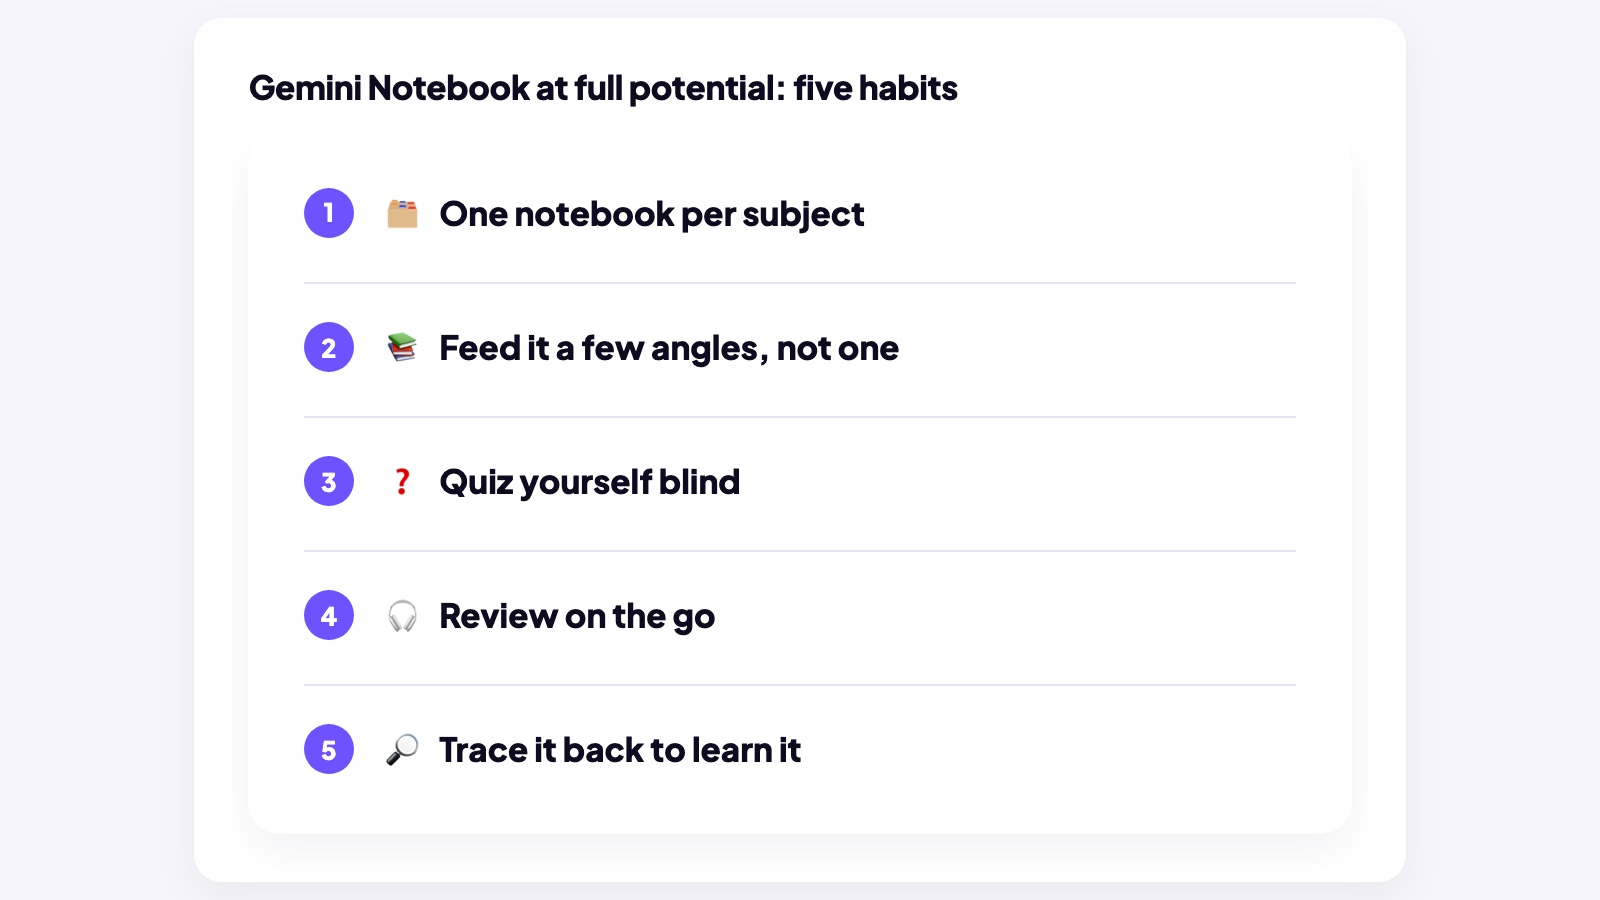
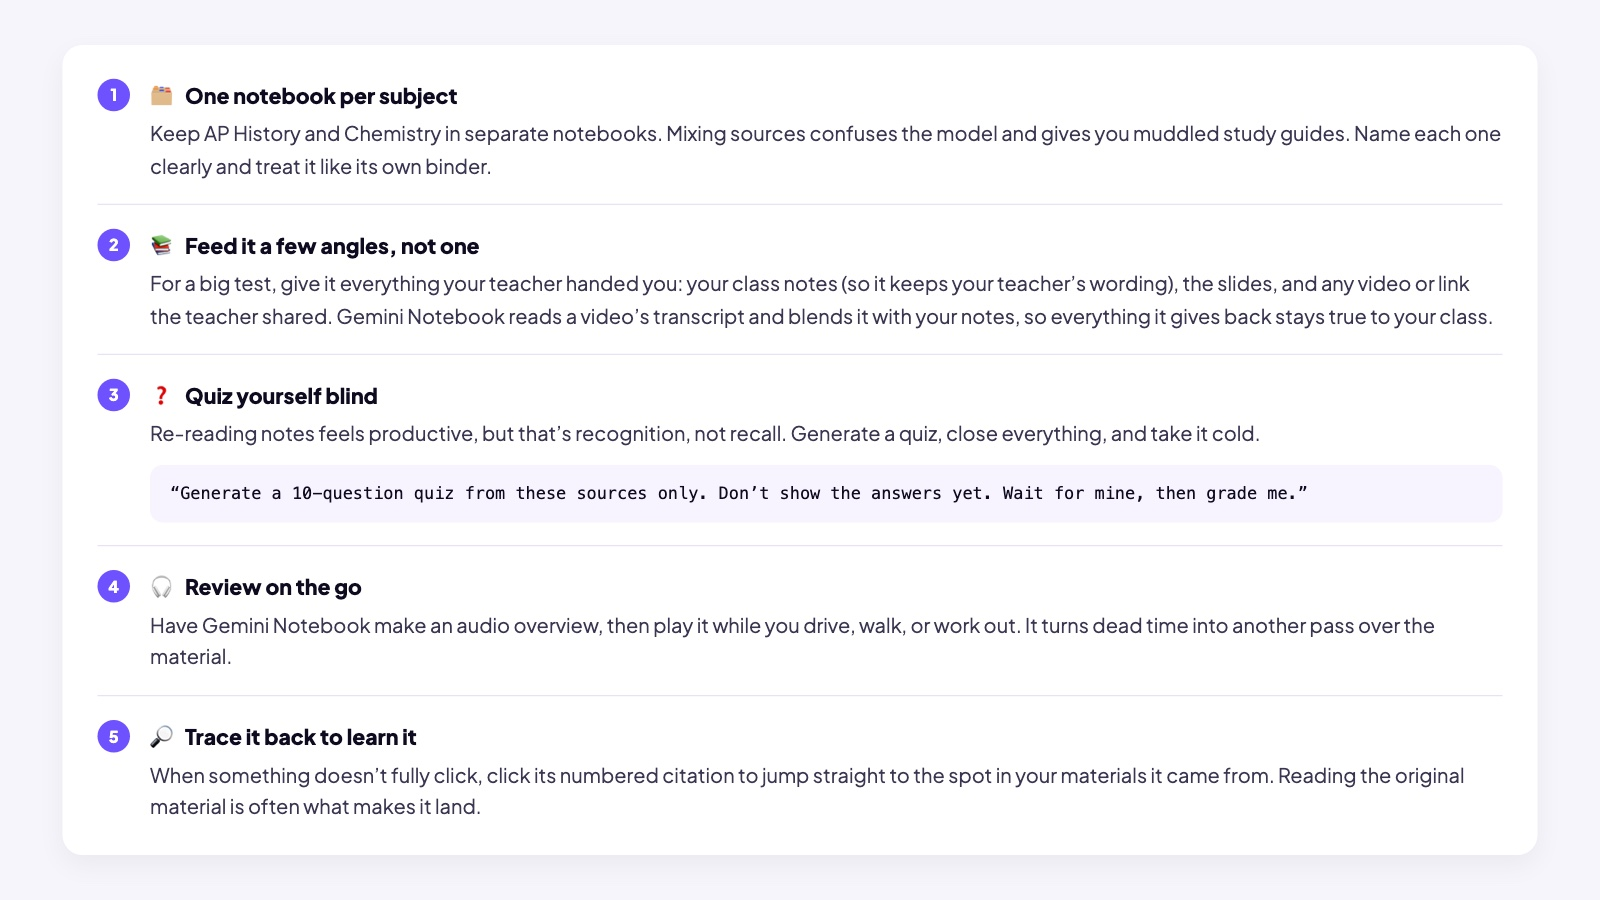
Rebuild the learn-with-ai habits board with its reasons
The kit board was titles only: five habit headings, no bodies. So the video
had nothing to walk and did the only thing available to it, reciting five
names. Cover the title and read a row and you get "Review on the go", which
is a label, not a reason.

Recaptured from the lesson's own extended block, so each habit now carries
the reason printed under it. It runs wide rather than tall and fits 16:9 at
the roomier 1280 stage without scaling.

This is the why-carrying board pattern that took layers from 10 to 13 on
teaches-vs-recites. The engine walks boards reliably, so putting the
explanation on the board points its most dependable behaviour at the part it
keeps skipping.

Prompt updated to match: board 3 gets the most time in the video, the five
are walked in order, and the reason under each one has to be spoken. Also
bans invented charts. The last roll ended on a fabricated bar chart reading
"AI AMPLIFIES STUDENT EFFORT, student input 10, AI amplification 30, 3X
AMPLIFIED" - no such numbers exist anywhere in the lesson.

Runtime ask relaxed to 3.5-4.5 min. The rejected roll was tight at 3:26 and
scored well on pacing; walking five reasoned habits needs room, but not
padding.

That roll is filed as a donor, superseded rather than rejected on quality.

diff --git a/scripts/capture-page-boards.js b/scripts/capture-page-boards.js
@@ -60,6 +60,12 @@ const BOARDS = [
   // shrinking it to 0.50 and leaving the portrait shape that makes the engine pan.
   { section: "aiismath", out: "ai-is-math-5-tying.jpg", width: 1180, vw: 1280,
     find: ["It’s May 21st", "Autoregressive Generation", "Picking the next word"] },
+
+  // learn-with-ai, 2026-07-28: the kit's 3-habits board was TITLES ONLY, so the video
+  // recited five habit names and taught none of them. This is the extended block with
+  // each habit's reason. It runs wide rather than tall, so it needs the roomier stage.
+  { section: "studying", out: "learn-with-ai-3-habits.jpg", width: 1180, vw: 1280,
+    find: ["One notebook per subject", "Trace it back to learn it", "Reading the original material"] },
 ];
 
 const compose = (preds, width, vw) => `(function(){

diff --git a/scripts/video/build_prompts.py b/scripts/video/build_prompts.py
@@ -574,7 +574,7 @@ End on board 5: "AI amplifies whatever you bring to it." over "Good thinking in,
     props="No readable or pseudo-readable text in drawn props — never draw notebooks, newspapers, studies or document pages with visible writing; real words belong only on the attached boards and in clean dark-ink labels.",
     required='the narrator must say "Maria Petronoski" aloud with "perfectly plausible, completely made up"; must say the nuance "it isn\'t \'don\'t trust anything\'"; must read both reactions from board 3 in their own words; and must close on "The model doesn\'t fix your thinking. It scales it."')
 
-add("learn-with-ai", title="Learn with AI", lo=4, hi="4.5", boards=True,
+add("learn-with-ai", title="Learn with AI", lo=3.5, hi="4.5", boards=True,
     body="""
 Attached boards in order: 1 the two study tools, 2 feed-in / get-out, 3 the five best practices, 4 the close.
 
@@ -588,14 +588,15 @@ Then Start here, with the lesson's own line: use Gemini Notebook as your main st
 
 Then board 2: feed it notes and PDFs, slides, images, websites and articles, YouTube videos — and get back a quiz, flashcards, a study guide, an audio overview, a mind map, a video overview. Name the outputs, not just the inputs.
 
-Then board 3, five best practices, each with its reason and none rushed. One, one notebook per subject: keep AP History and Chemistry separate, treat each like its own binder. Two, feed it a few angles: class notes so it keeps your teacher's wording, the slides, and any video or link the teacher shared. Three, quiz yourself blind: re-reading feels productive but that's recognition, not recall — generate a quiz, close everything, take it cold, and read the prompt out loud. Four, review on the go: have it make an audio overview and play it while you drive, walk or work out; it turns dead time into another pass. Five, trace it back: click the numbered citation to jump to the spot in your materials, because reading the original is often what makes it land. Give four and five the same room as three.
+Then board 3, and give it the most time of anything in this video. It carries all five best practices WITH the reason written under each one. Hold it and walk the five in order, and under every single one speak the reason printed on the board, in the board's own words: one notebook per subject and why mixing sources muddles the study guide; feed it a few angles and why your class notes keep your teacher's wording; quiz yourself blind, because re-reading is recognition and not recall, and read the quiz prompt out loud; review on the go, because it turns dead time into another pass over the material; trace it back, because reading the original is often what makes it land. Never read the five headings and move on — a heading without its reason teaches nothing, and that is exactly what the last roll did.
 
 End on board 4: "Use AI to learn, not to skip the learning." over "Feed it your materials. Trace it back."
 """,
-    numbers="The only numbers allowed are the lesson's own: 1am and the 10-question quiz. Invent no statistics and draw charts only as wordless background.",
-    props="No readable or pseudo-readable text in drawn props — never draw notebook pages, documents, chat windows or app screens with visible writing; real words belong only on the attached boards and in clean dark-ink labels.",
-    required='the narrator must teach the Gemini Notebook column before the general-tutor column, must say "the clue is in the name: it was built for learning", must speak Gemini Notebook\'s best-use list, and must state both catches.',
-    extra=("Write in the lesson's plain voice for a 16-year-old; never substitute academic register such as \"pedagogy\", \"architecture\", \"ecosystem of materials\", \"ground truth\", or \"magnifier of cognitive effort\".",))
+    numbers="The only numbers allowed are the lesson's own: 1am and the 10-question quiz.",
+    props="No readable or pseudo-readable text in drawn props; real words belong only on the attached boards and in clean dark-ink labels.",
+    required='the narrator must teach the Gemini Notebook column before the general-tutor column, must say "the clue is in the name: it was built for learning", must speak Gemini Notebook\'s best-use list, must state both catches, and must speak the REASON under each of the five best practices, not just their headings.',
+    extra=("Write in the lesson's plain voice for a 16-year-old; never substitute academic register such as \"pedagogy\", \"architecture\", \"ecosystem of materials\", \"ground truth\", or \"magnifier of cognitive effort\".",
+           "Never invent a chart, a graph, a statistic or a measured claim. The last roll ended on a fabricated bar chart reading \"AI AMPLIFIES STUDENT EFFORT, student input 10, AI amplification 30, 3X AMPLIFIED\"; no such numbers exist anywhere in this lesson and nothing like them may appear.",))
 
 add("how-ai-answers", title="How AI Answers", lo=3.5, hi=4, boards=True,
     body="""
